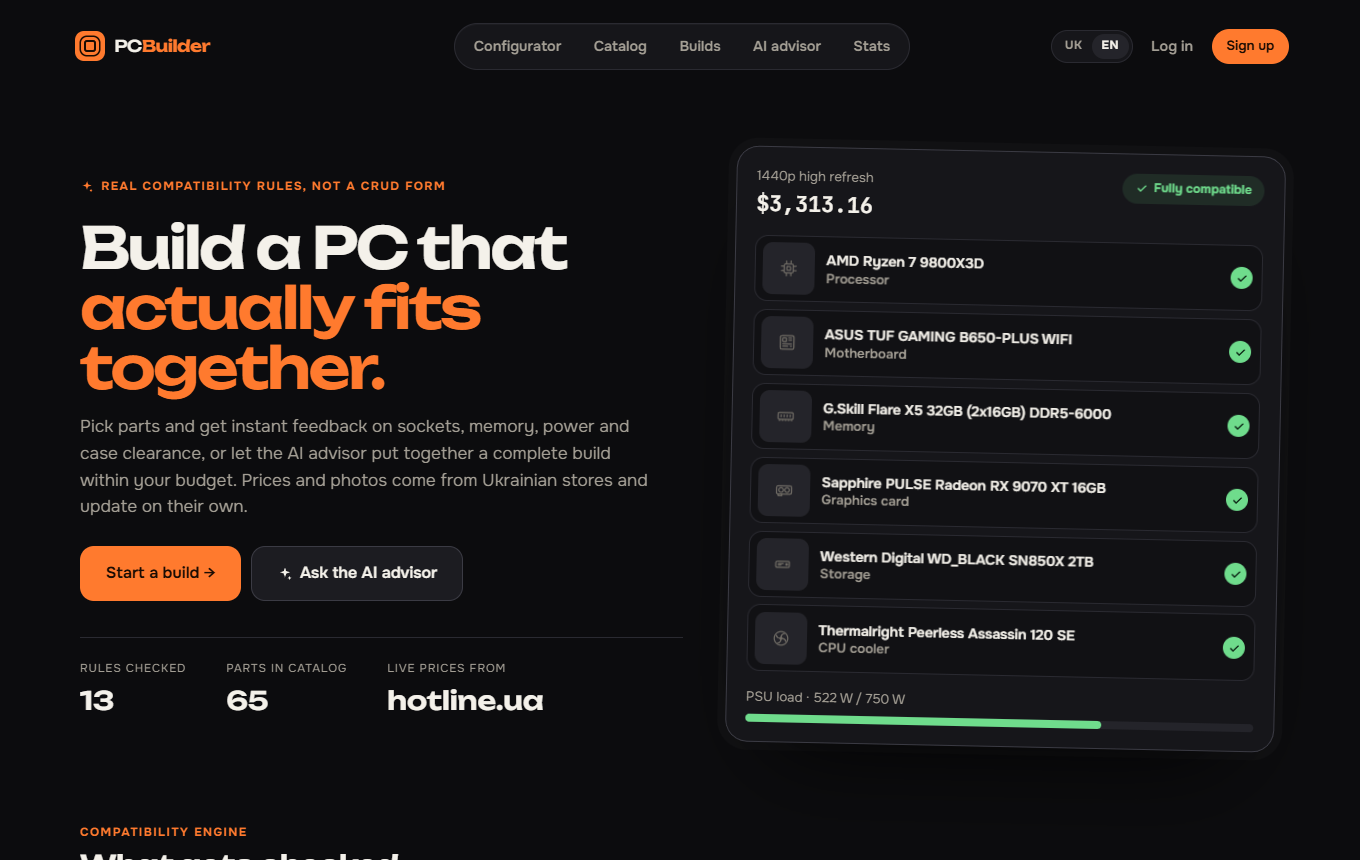
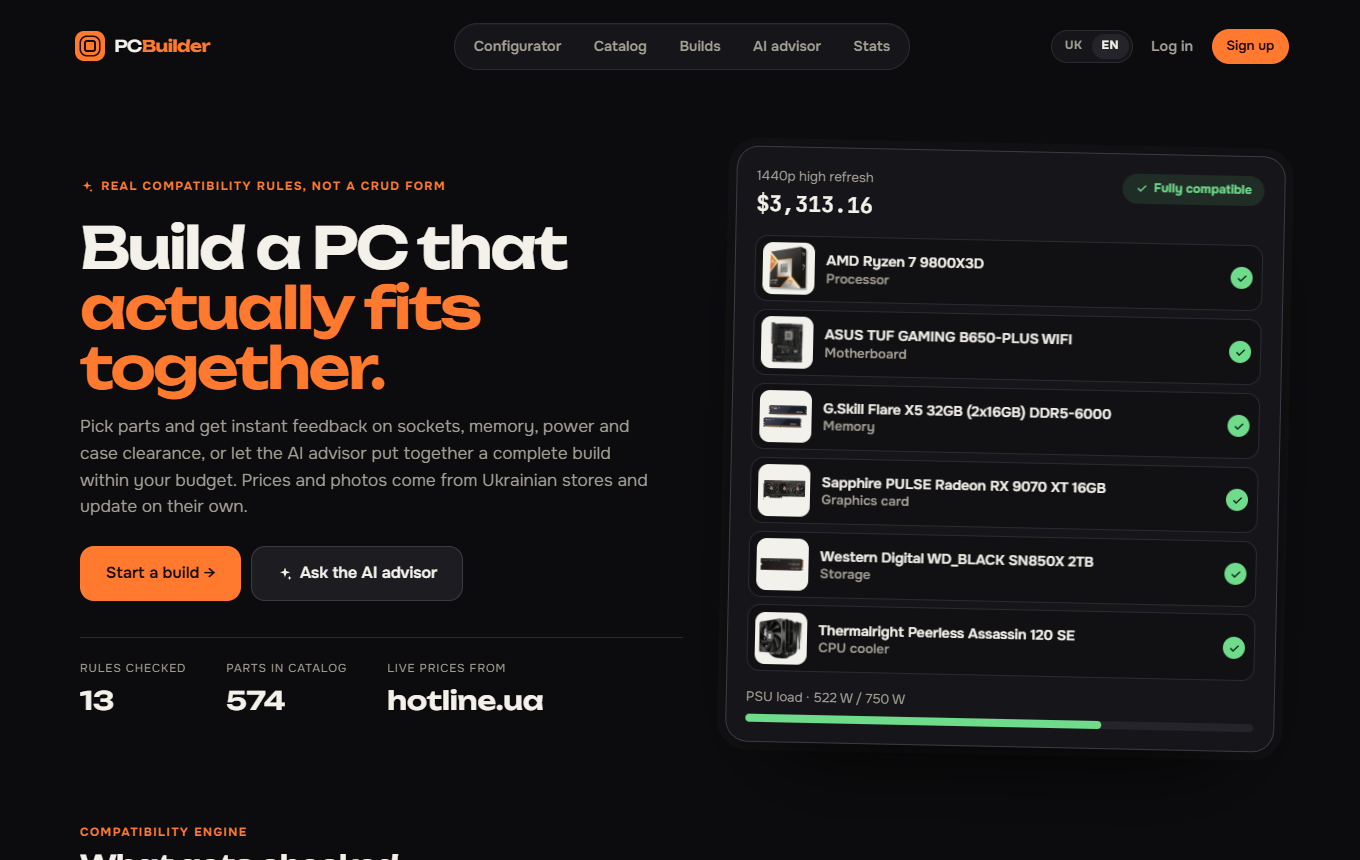
README screenshots with product photos; live part count on the home page

Changed region(s): [[0.5559, 0.2721, 0.6176, 0.786], [0.1544, 0.786, 0.2162, 0.8465]]

diff --git a/frontend/src/pages/HomePage.tsx b/frontend/src/pages/HomePage.tsx
@@ -1,6 +1,6 @@
 import { Link } from "react-router-dom";
 
-import { useBuild, useBuilds } from "../api/hooks";
+import { useBuild, useBuilds, useComponents } from "../api/hooks";
 import type { CategoryKind } from "../api/types";
 import { CategoryIcon, CheckIcon, SparkIcon } from "../components/icons";
 import { PartImage } from "../components/PartMedia";
@@ -79,6 +79,8 @@ export function HomePage() {
   const { t } = useI18n();
   const money = useMoney();
   const builds = useBuilds({ is_public: true, ordering: "total_price", page_size: 3 });
+  // Only the count is needed: the same list the catalog shows, one item per page.
+  const parts = useComponents({ page_size: 1 });
 
   return (
     <div className="home">
@@ -106,7 +108,7 @@ export function HomePage() {
             </div>
             <div>
               <dt>{t("home.statParts")}</dt>
-              <dd>65</dd>
+              <dd>{parts.data?.count ?? "—"}</dd>
             </div>
             <div>
               <dt>{t("home.statSource")}</dt>
